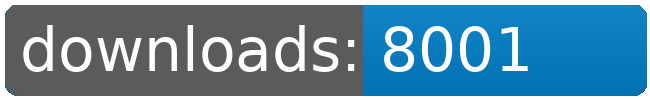
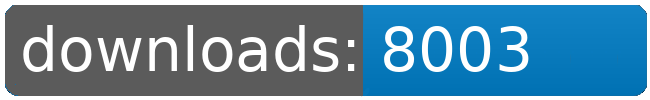
dl log written

Changed region(s): [[0.7692, 0.24, 0.8308, 0.72]]

diff --git a/README.md b/README.md
@@ -65,8 +65,8 @@
 		<td>7991</td>
 		<td>7997</td>
 		<td>8000</td>
-		<td>8001</td>
-		<td>+ 1</td>
+		<td>8003</td>
+		<td>+ 3</td>
 	</tr>
 	<tr>
 		<td>Korunak.Defense.Drones</td>
@@ -153,8 +153,8 @@
 		<td></td>
 		<td></td>
 		<td></td>
-		<td>68837</td>
-		<td>13</td>
+		<td>68839</td>
+		<td>15</td>
 	</tr>
 </table>
 </sub></sup>
@@ -245,8 +245,8 @@
 		<td>7991</td>
 		<td>7997</td>
 		<td>8000</td>
-		<td>8001</td>
-		<td>+ 1</td>
+		<td>8003</td>
+		<td>+ 3</td>
 	</tr>
 	<tr>
 		<td>Zone.of.Control</td>
@@ -311,8 +311,8 @@
 		<td></td>
 		<td></td>
 		<td></td>
-		<td>68837</td>
-		<td>13</td>
+		<td>68839</td>
+		<td>15</td>
 	</tr>
 </table>
 </sub></sup>
